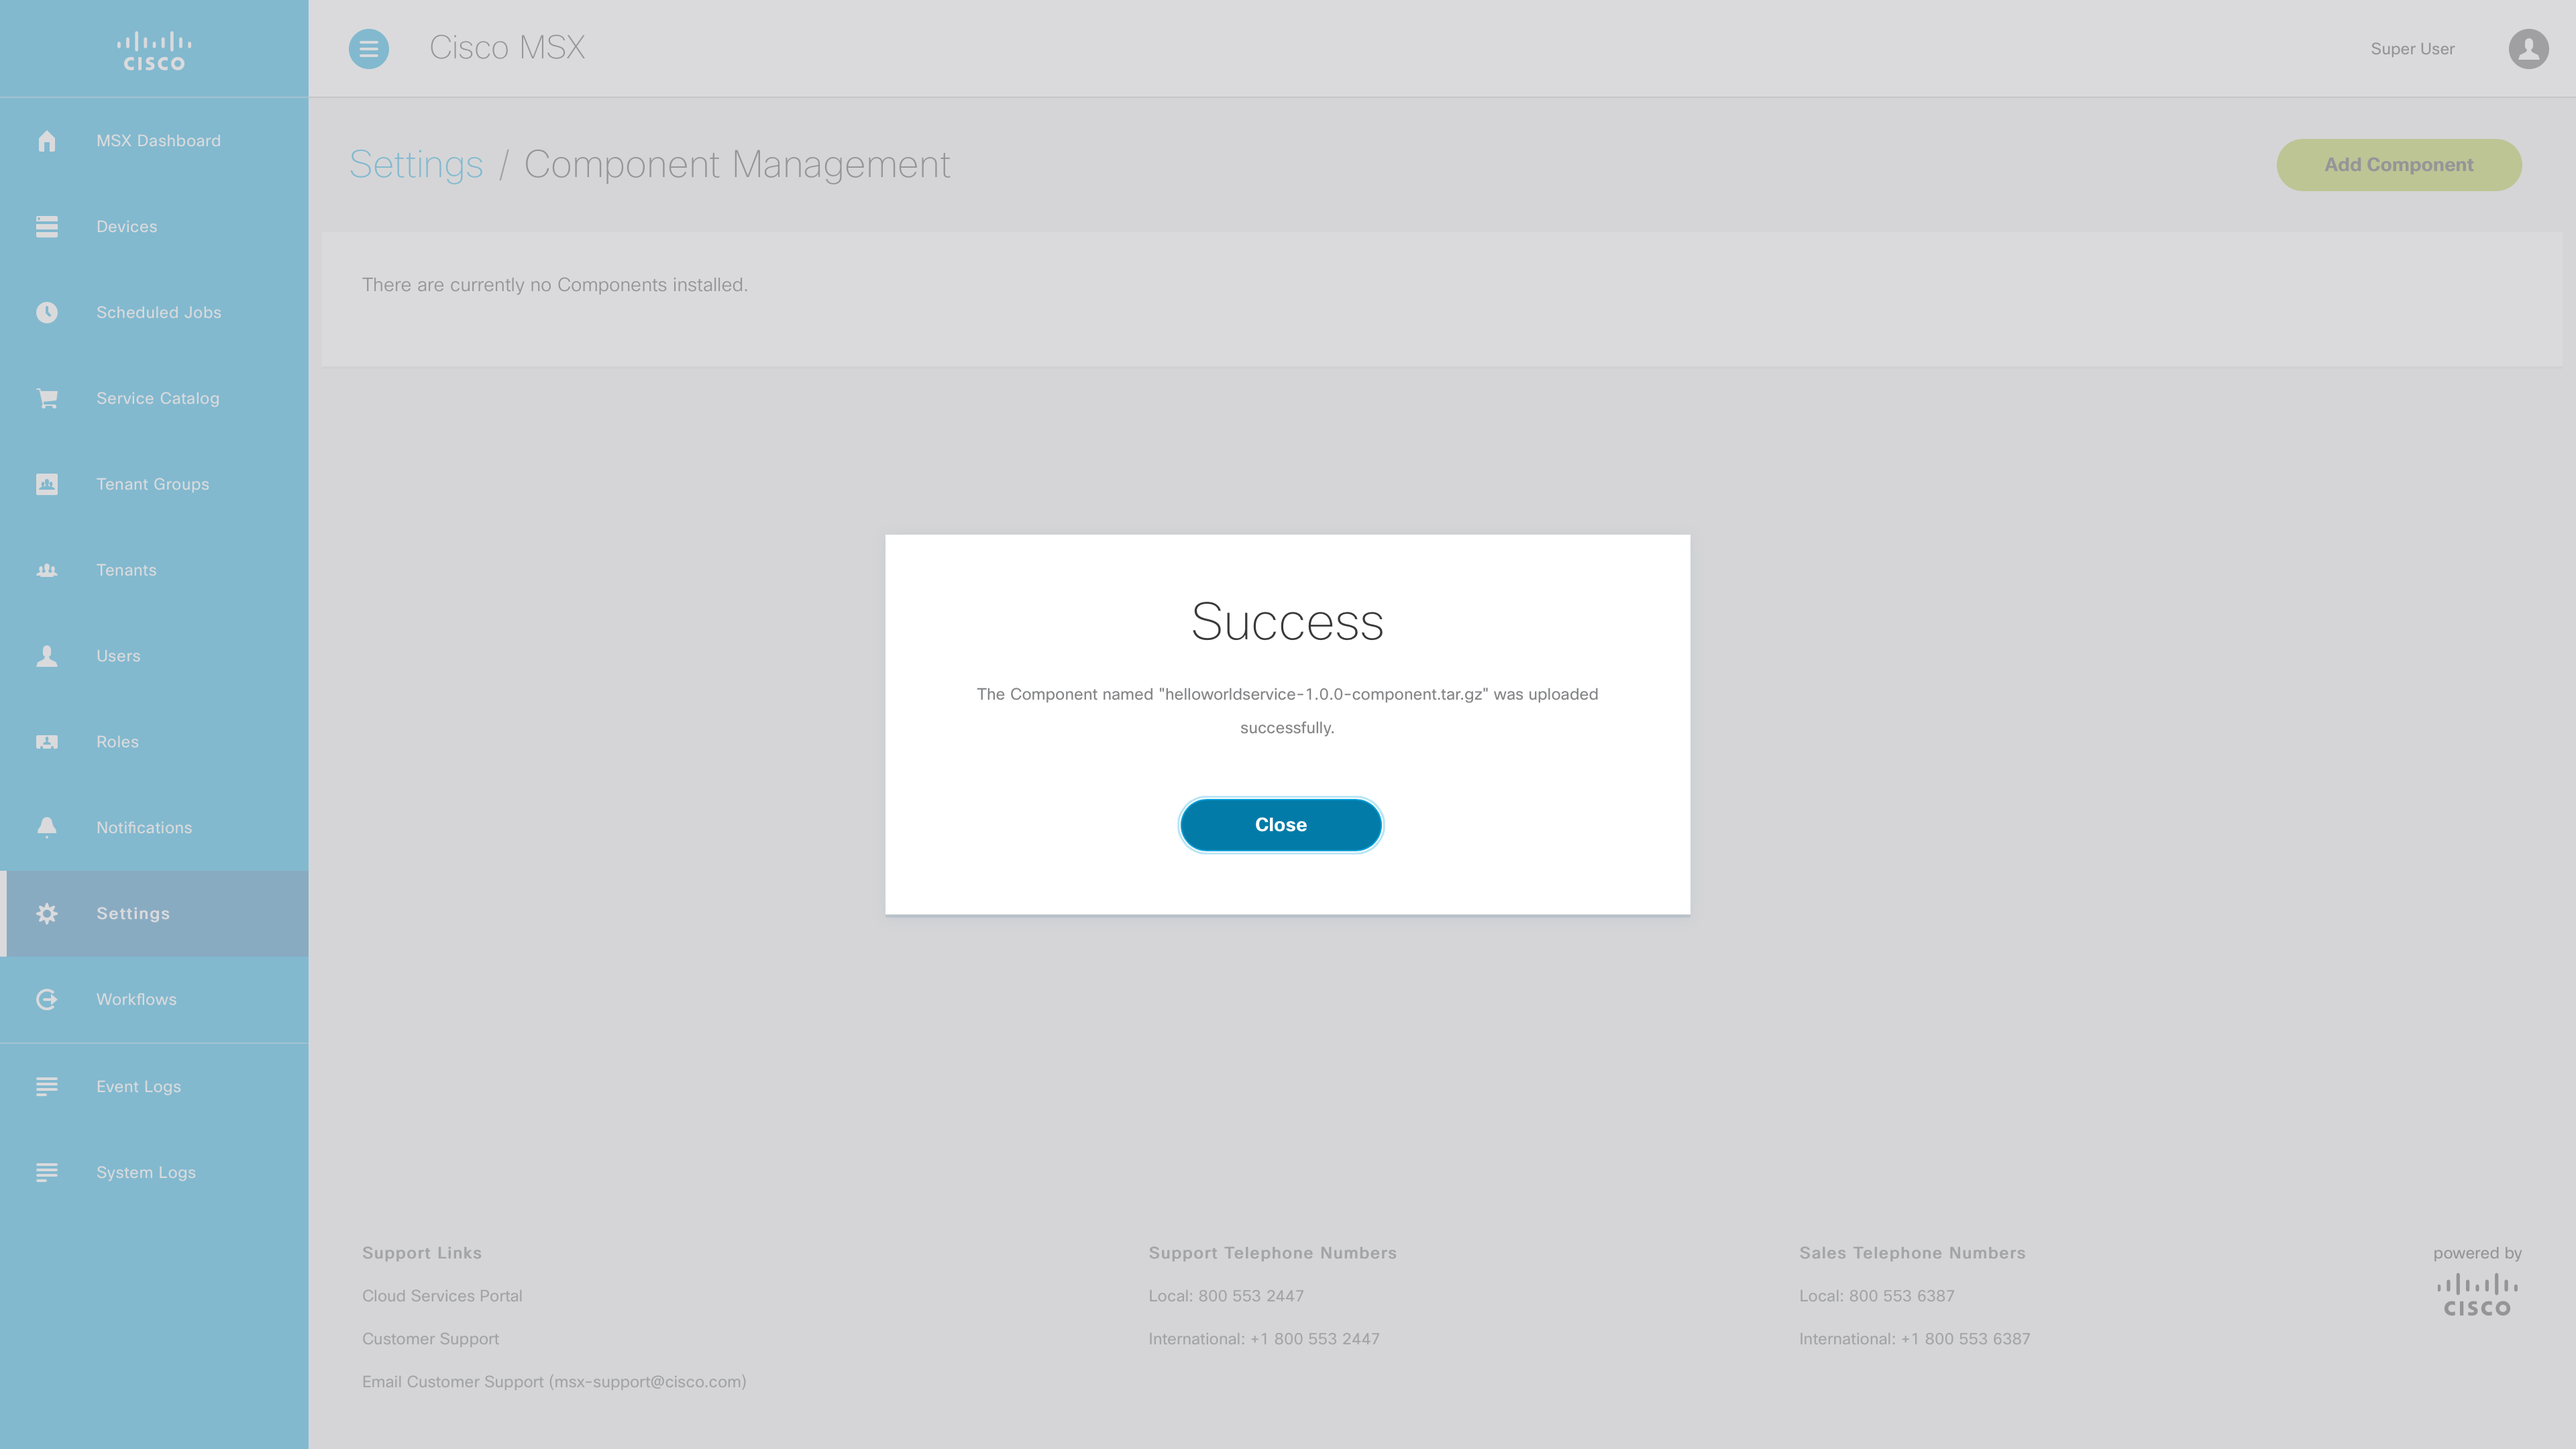
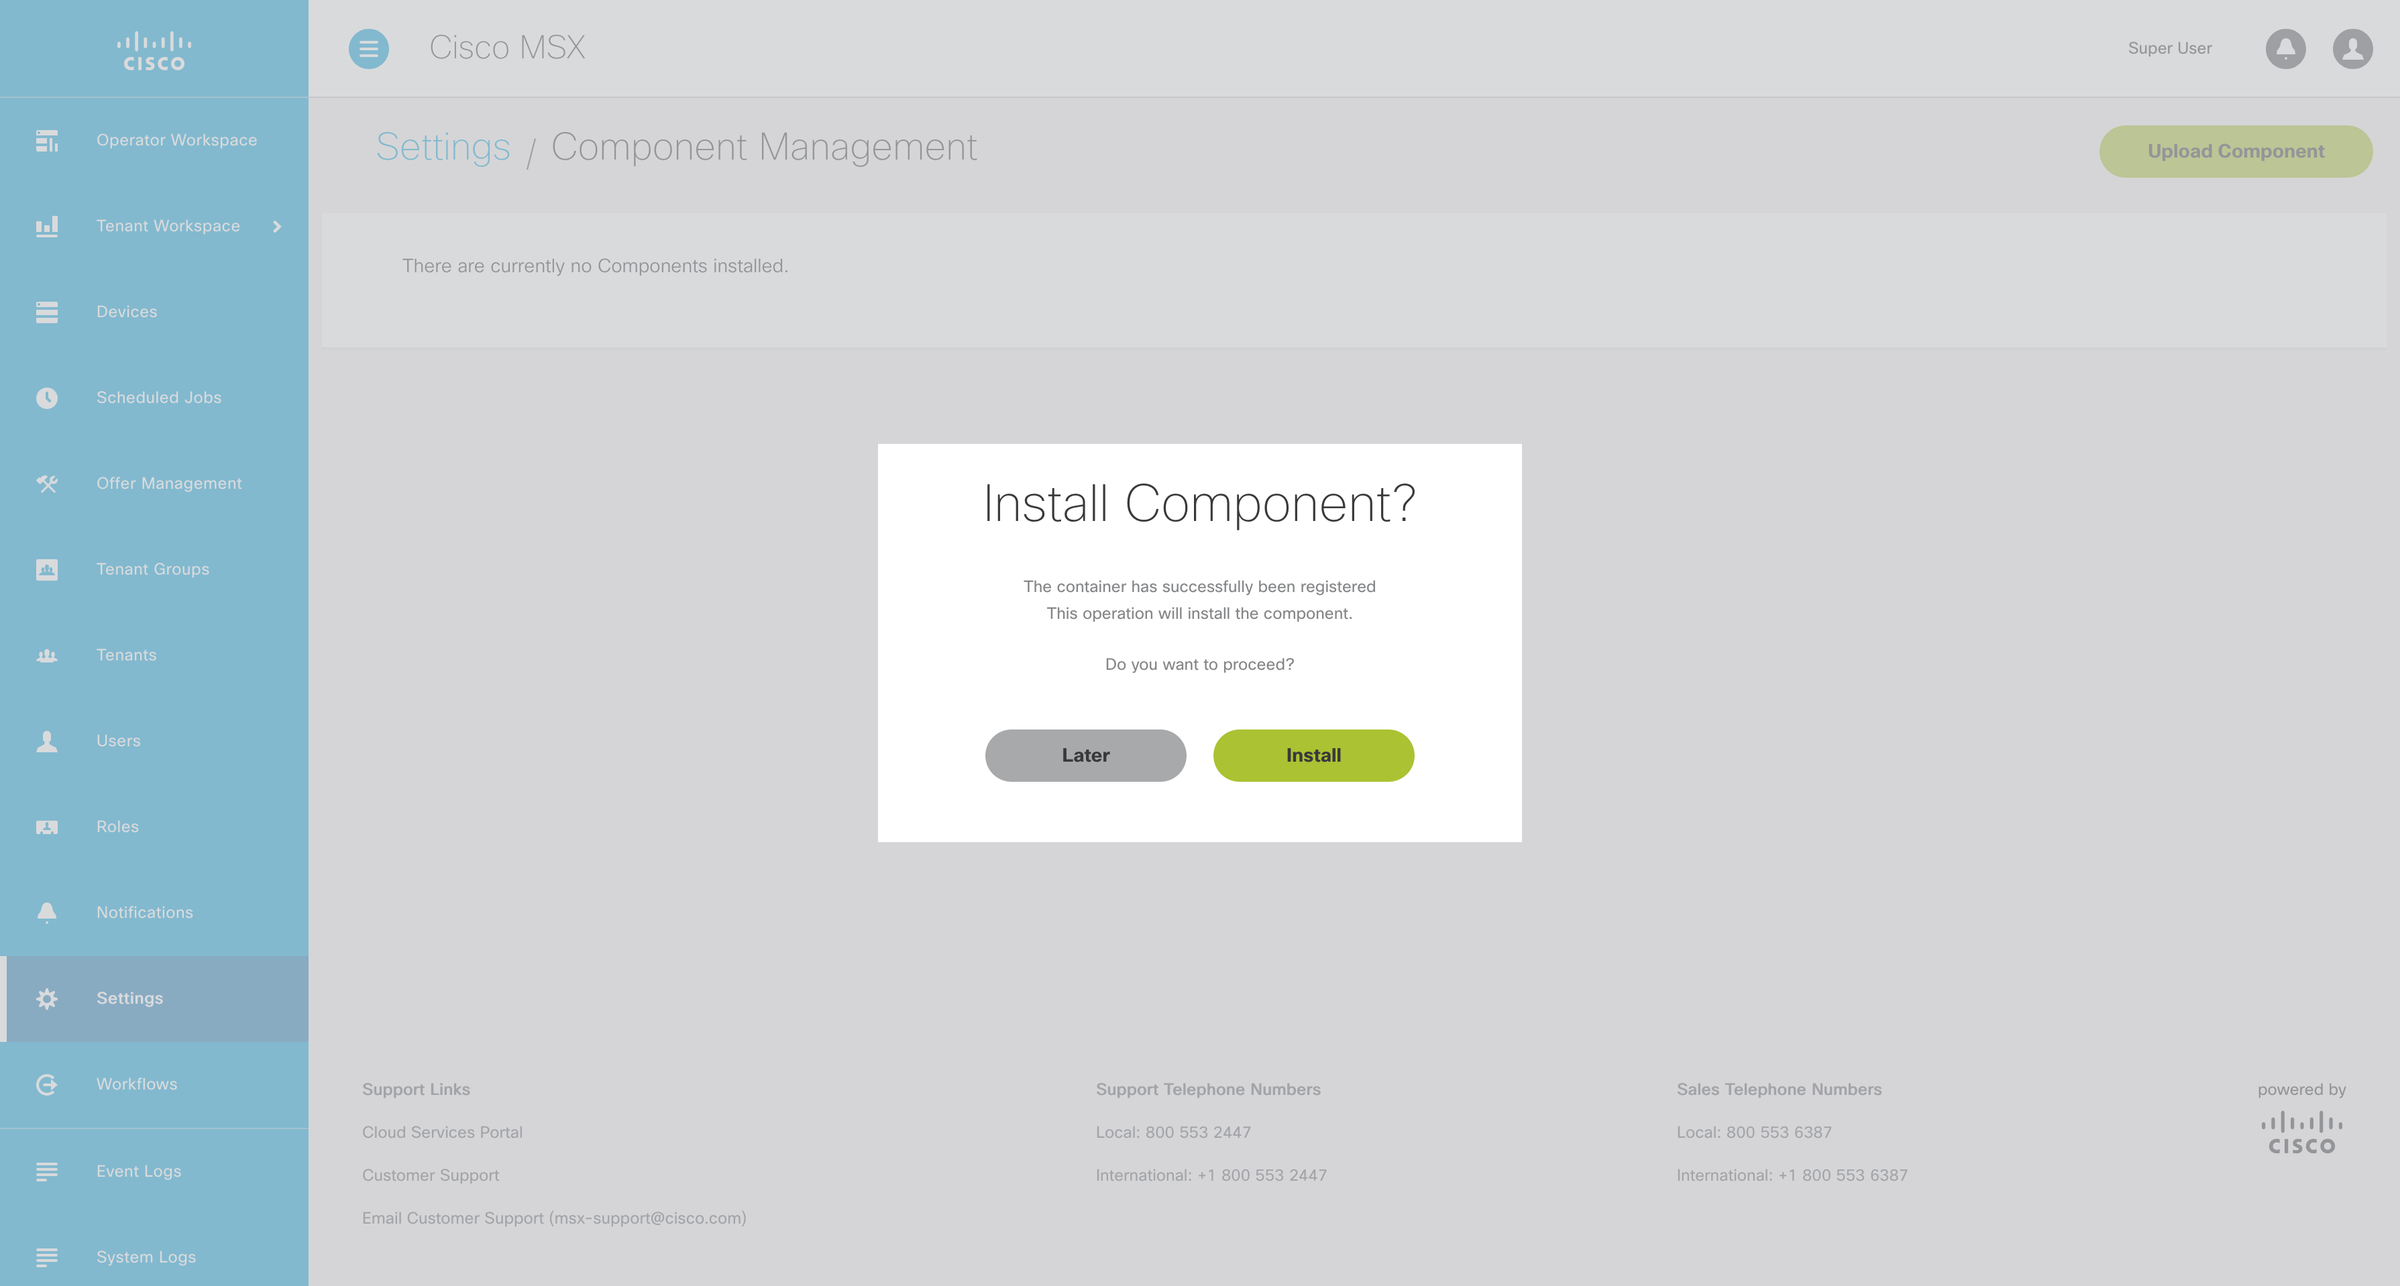
Updated component deployment instruction for MSX 4.3 (#9)
* Update deploy instructions for MSX 4.3

Added steps to upload and install different versions of a component as allowed by MSX 4.3

* Added files for updated deploying instructions

* Delete deploying-component-3.png

* Delete deploying-component-4.png

* Added files for updated deploying instructions

* Delete deploying-component-3.png

* Added files for updated deploying instructions

* Updated deploying instructions for MSX 4.3

* Updated deploying instructions for MSX 4.3

* Added images for updated deploying instructions

* Added image for updated deploying instructions

* Updated deploying instructions for MSX 4.3

diff --git a/03-msx-component-manager/04-onboarding-and-deploying-components.md b/03-msx-component-manager/04-onboarding-and-deploying-components.md
@@ -34,14 +34,31 @@ Select "Add Component" and pick the file "helloworldservice-1.0.0-component.tar.
 ![](images/deploying-component-2.png?raw=true)
 
 <br>
-Once the upload has finished a message box will indicating success of failure.
+Once the upload has finished, a message box will appear prompting whether to install the component.
 
 ![](images/deploying-component-3.png?raw=true)
 
 <br>
-After the message box has been dismissed the new component will appear in the list.
+You can choose to install the component or upload another version of the component following the steps above.
 
 ![](images/deploying-component-4.png?raw=true)
+
+<br>
+To install the component, click on the ellipsis and select "Install"
+
+![](images/deploying-component-5.png?raw=true)
+
+<br>
+Once the installation has finished, a message box will appear indicating success or failure.
+
+![](images/deploying-component-6.png?raw=True)
+
+<br>
+After the message box has been dismissed, the installed component will have state "K8S_DEPLOYMENT_DONE".
+
+![](images/deploying-component-7.png?raw=True)
+
+Note that while you can upload multiple versions of a component, you are only allowed to install one version.
 
 
 | [PREVIOUS](03-service-containerization-and-packaging.md) | [NEXT](05-service-offers-and-subscriptions.md) |  [HOME](../index.md#msx-component-manager) |
